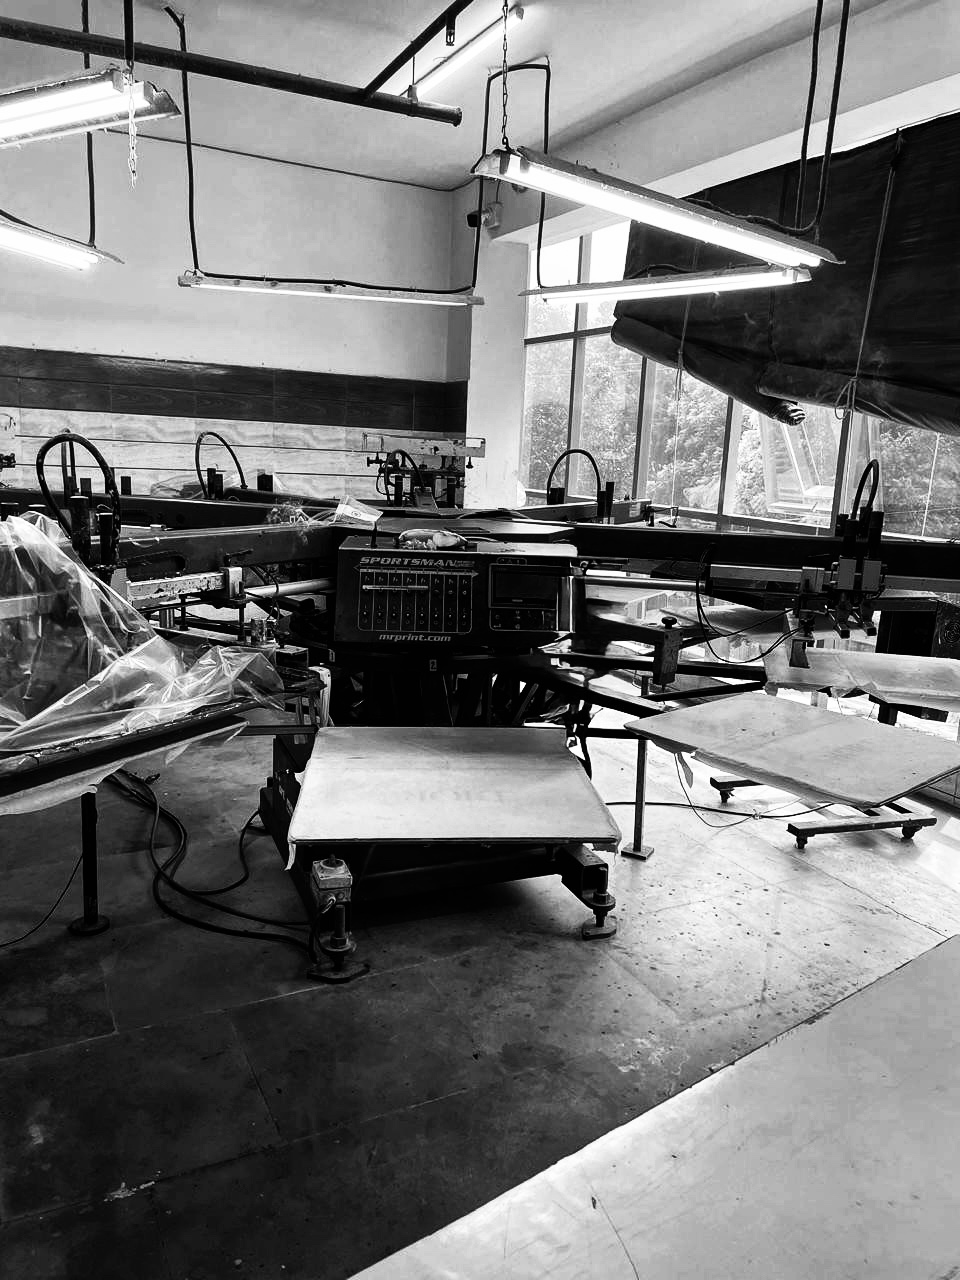
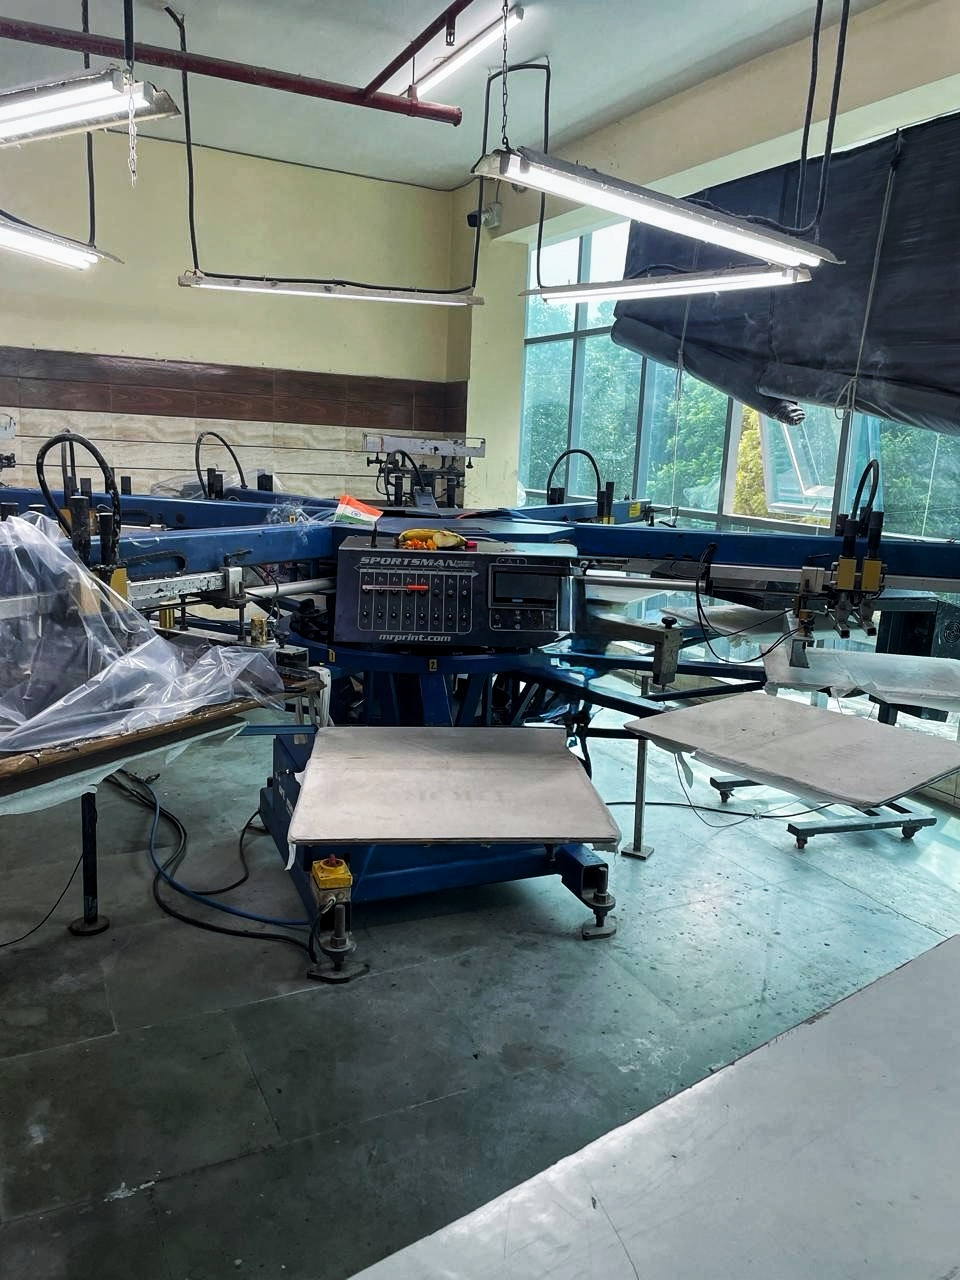
Updated images

diff --git a/src/app/products/page.tsx b/src/app/products/page.tsx
@@ -8,6 +8,11 @@ const categories = [
       { src: "/products/tshirts-1.jpg", brand: "" },
       { src: "/products/tshirts-2.jpg", brand: "" },
       { src: "/products/tshirts-3.jpg", brand: "" },
+      { src: "/products/tshirts-4.jpg", brand: "" },
+      { src: "/products/tshirts-5.jpg", brand: "" },
+      { src: "/products/tshirts-6.jpg", brand: "" },
+      { src: "/products/tshirts-7.jpg", brand: "" },
+      { src: "/products/tshirts-8.jpg", brand: "" },
     ],
   },
   {
@@ -35,6 +40,9 @@ const categories = [
       { src: "/products/sweatshirts-1.jpg", brand: "" },
       { src: "/products/sweatshirts-2.jpg", brand: "" },
       { src: "/products/sweatshirts-3.jpg", brand: "" },
+      { src: "/products/sweatshirts-4.jpg", brand: "" },
+      { src: "/products/sweatshirts-5.jpg", brand: "" },
+      { src: "/products/sweatshirts-6.jpg", brand: "" },
     ],
   },
   {
@@ -44,6 +52,7 @@ const categories = [
       { src: "/products/hoodies-1.jpg", brand: "" },
       { src: "/products/hoodies-2.jpg", brand: "" },
       { src: "/products/hoodies-3.jpg", brand: "" },
+      { src: "/products/hoodies-4.jpg", brand: "" },
     ],
   },
   

diff --git a/src/app/about/page.tsx b/src/app/about/page.tsx
@@ -21,7 +21,7 @@ export default function AboutPage() {
               We Build Supply Chains For Apparel Brands
             </h1>
             <p className="hero-text">
-              A clothing manufacturer in Greater Noida built around one idea -
+              A clothing manufacturer in India built around one idea -
               that apparel brands deserve a production partner that actually
               delivers what it promises.
             </p>

diff --git a/src/app/page.tsx b/src/app/page.tsx
@@ -186,7 +186,7 @@ export default function Home() {
 
           <div>
             <Image
-              src="/factory-5.jpg"
+              src="/factory-4.jpg"
               alt="Moist Corp Model"
               width={800}
               height={600}
